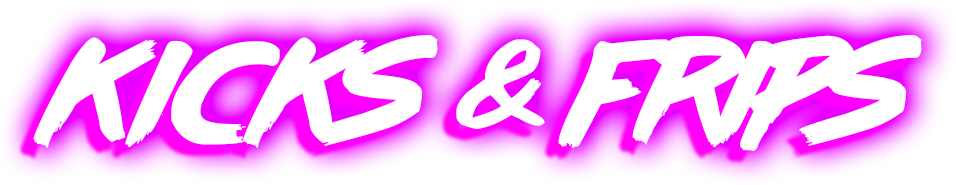
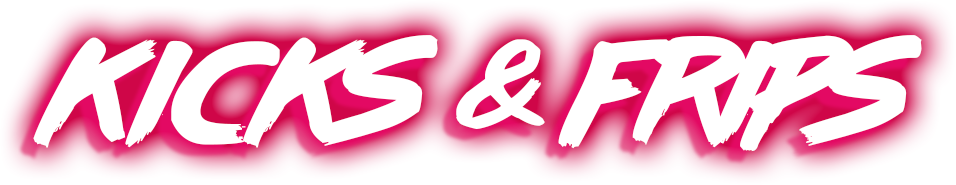
Modif global

diff --git a/index.html b/index.html
@@ -14,7 +14,7 @@
         /* Modify the background color */ 
           
         .navbar-custom { 
-            background-color: #3D085C; 
+            background-color: #900532; 
         }
         .nav-link {
             color: white;
@@ -35,8 +35,8 @@
             border-color: white;
         }
         .btn-primary{
-            background-color: #3D085C;
-            border-color: #3D085C;
+            background-color: #900532;
+            border-color: #a30c3e;
         }
         .bg-cover {
                 background-attachment: static;
@@ -79,7 +79,7 @@
         <h1 class="display-4">Kicks & Frips</h1>
   <p class="lead">Achat de sneakers et de vêtements neufs et de seconde main</p>
     <div class="text-center">
-        <a class="btn btn-primary btn-lg" href="#" role="button">Page Vinted</a>
+        <a class="btn btn-primary btn-lg" href="https://www.vinted.fr/member/41582734-kicksandfrips" role="button">Page Vinted</a>
     </div>
 </div>
 
